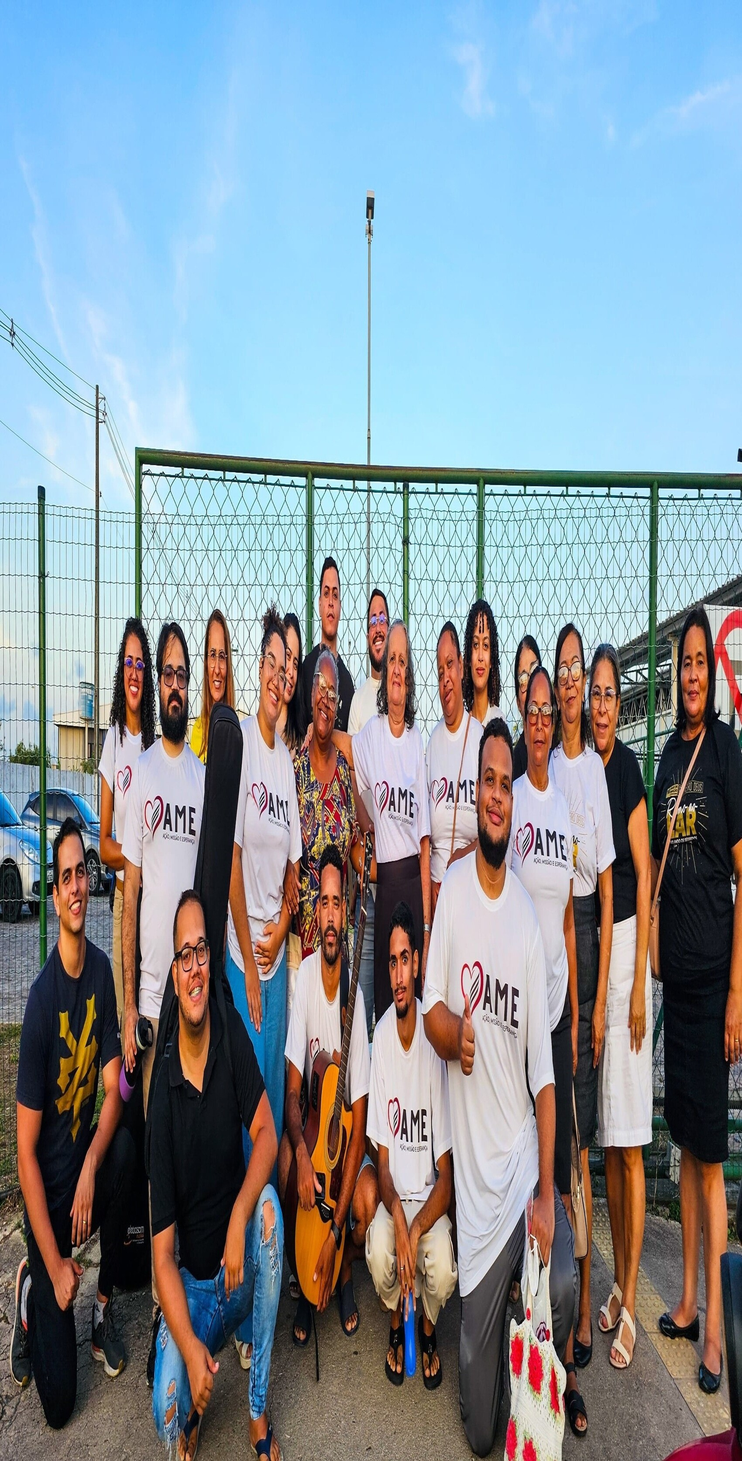
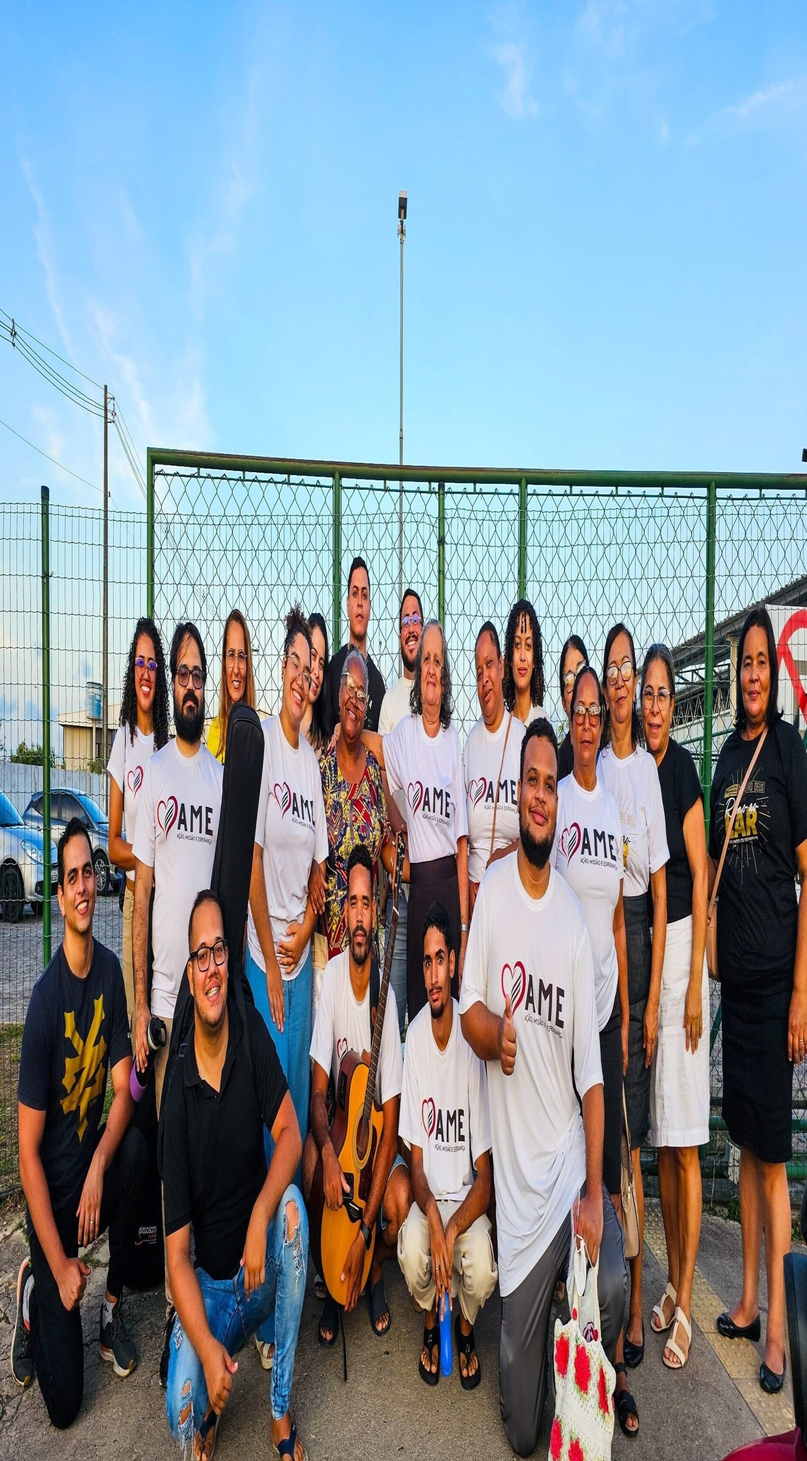
Alterei99

diff --git a/style.css b/style.css
@@ -487,7 +487,14 @@ p {
   white-space: nowrap; /* Impede que o nome quebre para a próxima linha */
 }
 
-
+.main3 {
+  min-height: 65vh;
+  width: 100%;
+  background-position: center;
+  background-size: cover;
+  background-image: url("1.jpg");
+  background-attachment: fixed;
+}
 
 .main4 {
   min-height: 70vh;

diff --git a/index.html b/index.html
@@ -184,7 +184,7 @@
         <br>
         <br>
         <br>
-          <h1>Veja nossa mídia 📷</h1>
+          <h1>Nossa mídia 📷</h1>
           <div id="carrosselAME" class="carousel slide" data-bs-ride="carousel">
             <div class="carousel-inner">
               <div class="carousel-item active">
